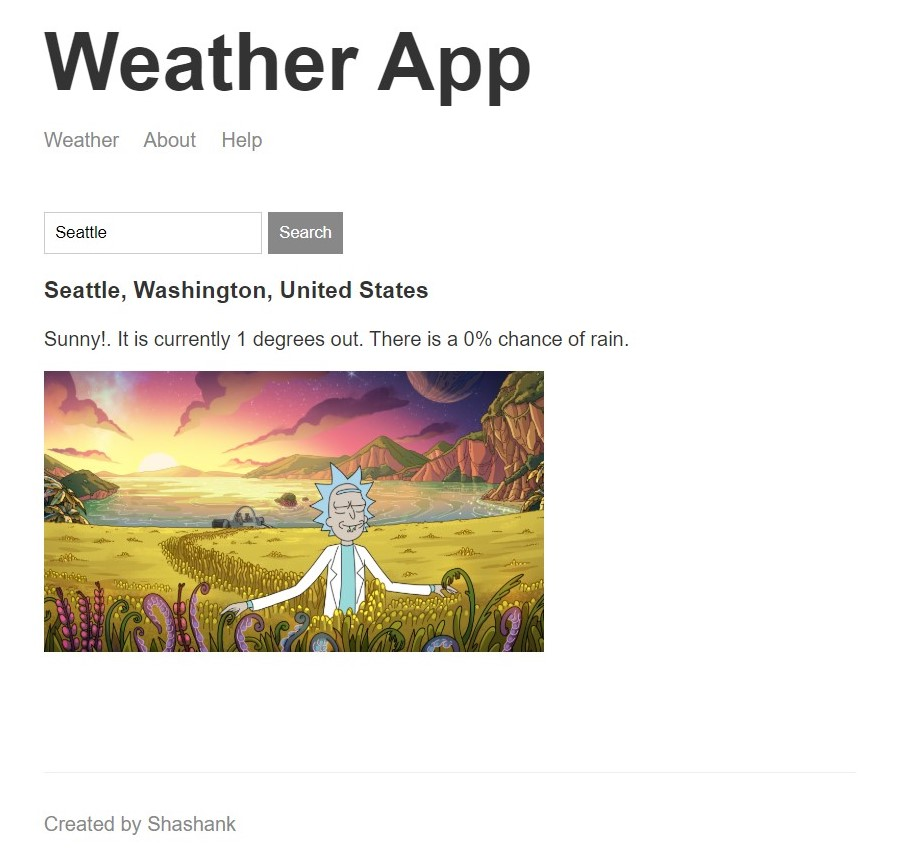
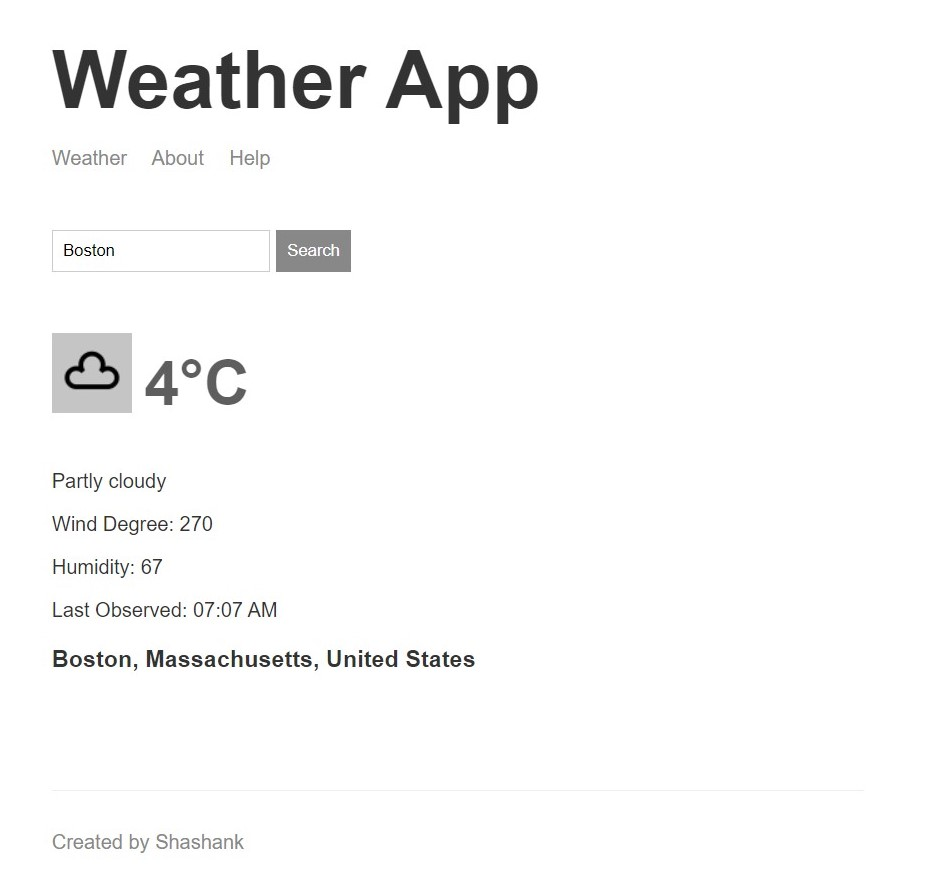
Data increased

diff --git a/public/js/app.js b/public/js/app.js
@@ -1,21 +1,41 @@
 const weatherForm = document.querySelector('form')
 const search = document.querySelector('input')
-const messageOne = document.querySelector('#message-1')
-const messageTwo = document.querySelector('#message-2')
+const searchedLoaction = document.querySelector('#location')
+const temperature = document.querySelector('#temperature')
+const humidity = document.querySelector('#humidity')
+const wind_degree = document.querySelector('#wind-degree')
+const weather_description = document.querySelector('#weather-description')
+const last_observed = document.querySelector('#last-observed')
+const message = document.querySelector('#message')
+const weatherImg = document.querySelector('#weather-img')
 
 weatherForm.addEventListener('submit', (e) => {
     e.preventDefault()
 
-    const location = search.value
-    messageOne.textContent = 'Loading...'
-    messageTwo.textContent = ''
-    fetch('/weather?address=' + location).then((response) => {
-        response.json().then((data) => {
-            if (data.error) {
-                messageOne.textContent = data.error
+    message.textContent = 'Loading...'
+    searchedLoaction.textContent = ''
+    temperature.textContent = ''
+    humidity.textContent = ''
+    wind_degree.textContent = ''
+    weather_description.textContent = ''
+    last_observed.textContent = ''
+    weatherImg.src = ''
+    const area = search.value
+    fetch('/weather?address=' + area).then((response) => {
+        response.json().then((forecastData) => {
+
+            console.log(forecastData)
+            if (forecastData.error) {
+                message.textContent = forecastData.error
             } else {
-                messageOne.textContent = data.location
-                messageTwo.textContent = data.forecast
+                message.textContent = ''
+                weatherImg.src = forecastData.weatherIcon
+                searchedLoaction.textContent = forecastData.location
+                temperature.textContent = forecastData.temperature + "°C"
+                humidity.textContent = 'Humidity: ' + forecastData.humidity
+                wind_degree.textContent = 'Wind Degree: ' + forecastData.wind_degree
+                weather_description.textContent = forecastData.weather_description
+                last_observed.textContent = 'Last Observed: ' + forecastData.last_observed
             }
         })
     })

diff --git a/src/utils/forecast.js b/src/utils/forecast.js
@@ -2,7 +2,7 @@ const request = require('request')
 
 const forecast = (lat, long, callback) => {
 
-    url = 'http://api.weatherstack.com/current?access_key=99b3f4664e51ec83e6482b6d689c192d&query=' + lat + '&' + long
+    url = 'http://api.weatherstack.com/current?access_key=99b3f4664e51ec83e6482b6d689c192d&query=' + lat + ',' + long
 
     request({ url, json: true }, (error, { body }) => {
 
@@ -11,7 +11,14 @@ const forecast = (lat, long, callback) => {
         } else if (body.error) {
             callback('Unable to find location')
         } else {
-            callback(undefined, body.current.weather_descriptions[0] + "!. It is currently " + body.current.temperature + " degrees out. There is a " + body.current.precip + "% chance of rain.")
+            callback(undefined, {
+                weatherIcon: body.current.weather_icons[0],
+                temperature: body.current.temperature,
+                weather_description: body.current.weather_descriptions[0],
+                wind_degree: body.current.wind_degree,
+                humidity: body.current.humidity,
+                last_observed: body.current.observation_time
+            })
         }
     })
 }

diff --git a/public/css/style.css b/public/css/style.css
@@ -40,6 +40,10 @@ header a {
     max-width: 400px;
 }
 
+img {
+    max-width: 250px;
+}
+
 input {
     border: 1px solid #cccccc;
     padding: 8px;
@@ -51,4 +55,20 @@ button {
     background: #888888;
     color: white;
     padding: 8px;
+}
+
+.temperature {
+    font-size: 50px;
+    color: #0b0a0aa8;
+    margin-bottom: 20px;
+}
+
+#weather-img {
+    margin-right: 10px;
+    padding: 30px 0;
+}
+
+.weather-status {
+    display: flex;
+    flex-direction: row;
 }

diff --git a/src/app.js b/src/app.js
@@ -55,11 +55,7 @@ app.get('/weather', (req, res) => {
                 return res.send({ error })
             }
 
-            res.send({
-                forecast: forecastData,
-                location,
-                address: req.query.address
-            })
+            res.send({ location, ...forecastData })
         })
     })
 })
